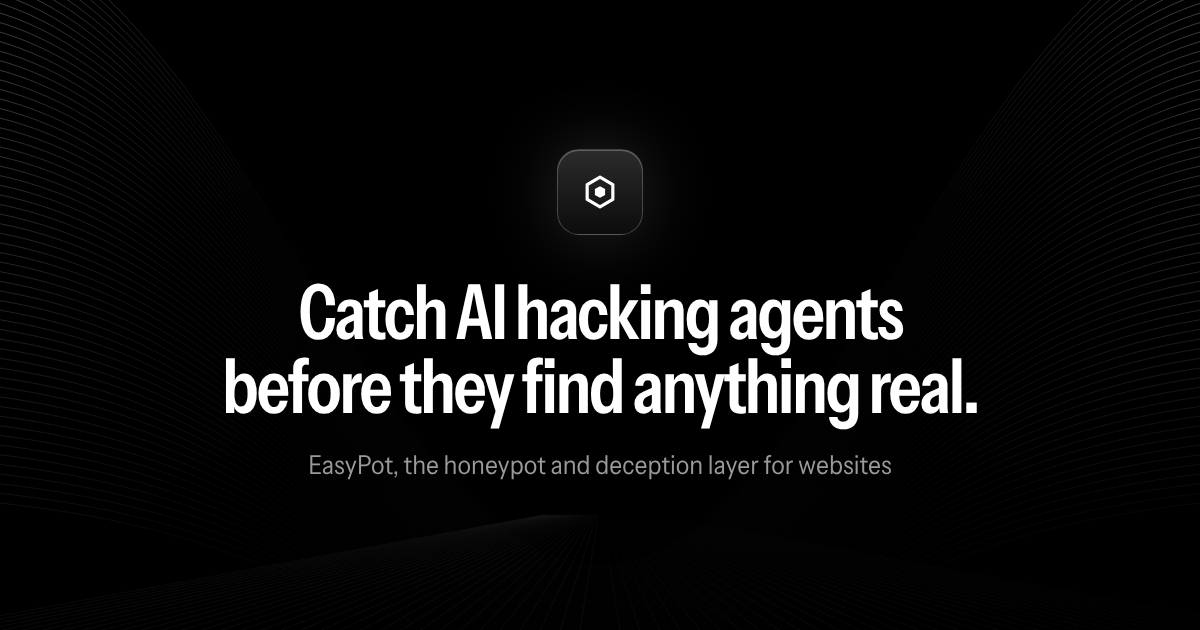
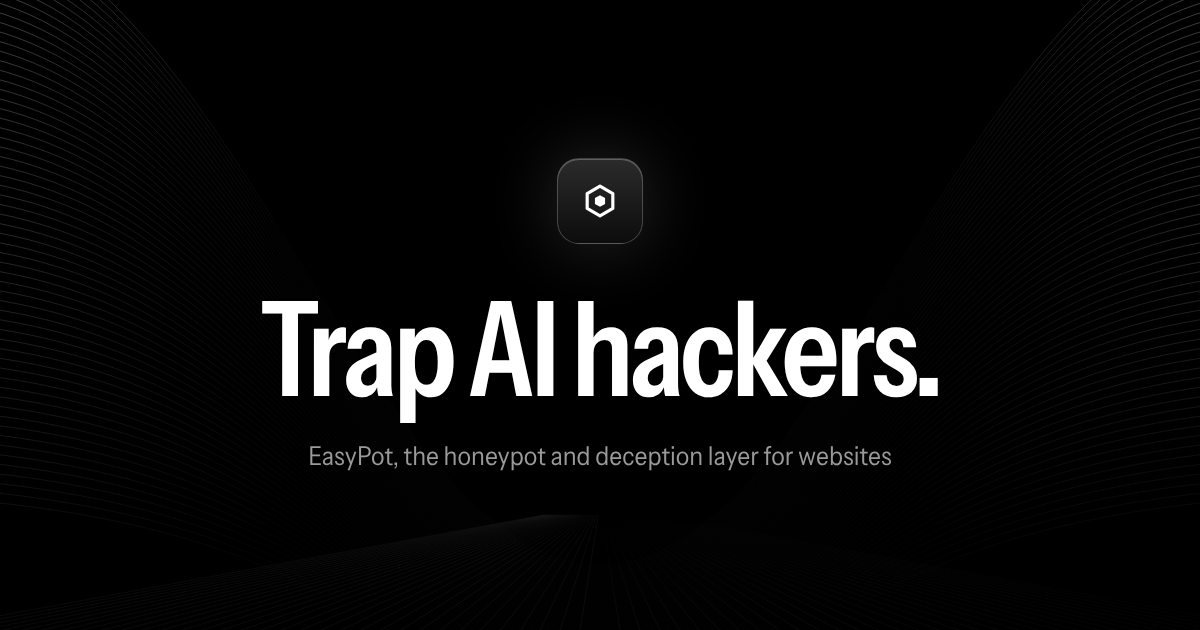
Landing page: shorten the headline to "Trap AI hackers."
The hero headline, share image and social titles now use the
three-word line, set larger so it holds one line at every width.

Claude-Session: https://claude.ai/code/session_015wtVTmvb2g8BLPFMqPnSxx

Changed region(s): [[0.185, 0.4524, 0.8325, 0.754], [0.4625, 0.2111, 0.555, 0.3921]]

diff --git a/site/index.html b/site/index.html
@@ -11,14 +11,14 @@
   <!-- Once the site has its domain, add <link rel="canonical">, og:url, and make og:image and twitter:image absolute URLs. -->
   <meta property="og:type" content="website">
   <meta property="og:site_name" content="EasyPot">
-  <meta property="og:title" content="EasyPot: catch AI hacking agents before they find anything real">
+  <meta property="og:title" content="EasyPot: trap AI hackers">
   <meta property="og:description" content="Decoys, honeytokens and hidden tripwires that catch AI agents, scanners and bots on first touch, then block them at your firewall.">
   <meta property="og:image" content="og.png">
   <meta property="og:image:width" content="1200">
   <meta property="og:image:height" content="630">
-  <meta property="og:image:alt" content="EasyPot: catch AI hacking agents before they find anything real.">
+  <meta property="og:image:alt" content="EasyPot: trap AI hackers.">
   <meta name="twitter:card" content="summary_large_image">
-  <meta name="twitter:title" content="EasyPot: catch AI hacking agents before they find anything real">
+  <meta name="twitter:title" content="EasyPot: trap AI hackers">
   <meta name="twitter:description" content="Decoys, honeytokens and hidden tripwires that catch AI agents, scanners and bots on first touch.">
   <meta name="twitter:image" content="og.png">
   <link rel="icon" href="favicon.svg" type="image/svg+xml">
@@ -57,7 +57,7 @@
     <section class="hero" id="top">
       <div class="hero-art" aria-hidden="true"><svg viewBox="0 0 1440 1040" preserveAspectRatio="xMidYMin slice" fill="none"><defs><linearGradient id="ln" x1="0" x2="1"><stop offset="0" stop-color="#fff" stop-opacity=".65"/><stop offset=".27" stop-color="#fff" stop-opacity=".08"/><stop offset=".5" stop-color="#fff" stop-opacity=".02"/><stop offset=".73" stop-color="#fff" stop-opacity=".08"/><stop offset="1" stop-color="#fff" stop-opacity=".65"/></linearGradient><linearGradient id="fl" y1="0" y2="1"><stop offset="0" stop-color="#fff" stop-opacity="0"/><stop offset="1" stop-color="#fff" stop-opacity=".13"/></linearGradient><radialGradient id="vg" cx=".5" cy=".3" r=".5"><stop offset=".35" stop-color="#000" stop-opacity=".9"/><stop offset="1" stop-color="#000" stop-opacity="0"/></radialGradient><linearGradient id="fade" y1="0" y2="1"><stop offset=".75" stop-color="#000" stop-opacity="0"/><stop offset="1" stop-color="#000"/></linearGradient></defs><g stroke="url(#fl)" stroke-width=".7"><path d="M652.0 760L-912.0 1050"/><path d="M654.0 760L-864.0 1050"/><path d="M656.0 760L-816.0 1050"/><path d="M658.0 760L-768.0 1050"/><path d="M660.0 760L-720.0 1050"/><path d="M662.0 760L-672.0 1050"/><path d="M664.0 760L-624.0 1050"/><path d="M666.0 760L-576.0 1050"/><path d="M668.0 760L-528.0 1050"/><path d="M670.0 760L-480.0 1050"/><path d="M672.0 760L-432.0 1050"/><path d="M674.0 760L-384.0 1050"/><path d="M676.0 760L-336.0 1050"/><path d="M678.0 760L-288.0 1050"/><path d="M680.0 760L-240.0 1050"/><path d="M682.0 760L-192.0 1050"/><path d="M684.0 760L-144.0 1050"/><path d="M686.0 760L-96.0 1050"/><path d="M688.0 760L-48.0 1050"/><path d="M690.0 760L0.0 1050"/><path d="M692.0 760L48.0 1050"/><path d="M694.0 760L96.0 1050"/><path d="M696.0 760L144.0 1050"/><path d="M698.0 760L192.0 1050"/><path d="M700.0 760L240.0 1050"/><path d="M702.0 760L288.0 1050"/><path d="M704.0 760L336.0 1050"/><path d="M706.0 760L384.0 1050"/><path d="M708.0 760L432.0 1050"/><path d="M710.0 760L480.0 1050"/><path d="M712.0 760L528.0 1050"/><path d="M714.0 760L576.0 1050"/><path d="M716.0 760L624.0 1050"/><path d="M718.0 760L672.0 1050"/><path d="M720.0 760L720.0 1050"/><path d="M722.0 760L768.0 1050"/><path d="M724.0 760L816.0 1050"/><path d="M726.0 760L864.0 1050"/><path d="M728.0 760L912.0 1050"/><path d="M730.0 760L960.0 1050"/><path d="M732.0 760L1008.0 1050"/><path d="M734.0 760L1056.0 1050"/><path d="M736.0 760L1104.0 1050"/><path d="M738.0 760L1152.0 1050"/><path d="M740.0 760L1200.0 1050"/><path d="M742.0 760L1248.0 1050"/><path d="M744.0 760L1296.0 1050"/><path d="M746.0 760L1344.0 1050"/><path d="M748.0 760L1392.0 1050"/><path d="M750.0 760L1440.0 1050"/><path d="M752.0 760L1488.0 1050"/><path d="M754.0 760L1536.0 1050"/><path d="M756.0 760L1584.0 1050"/><path d="M758.0 760L1632.0 1050"/><path d="M760.0 760L1680.0 1050"/><path d="M762.0 760L1728.0 1050"/><path d="M764.0 760L1776.0 1050"/><path d="M766.0 760L1824.0 1050"/><path d="M768.0 760L1872.0 1050"/><path d="M770.0 760L1920.0 1050"/><path d="M772.0 760L1968.0 1050"/><path d="M774.0 760L2016.0 1050"/><path d="M776.0 760L2064.0 1050"/><path d="M778.0 760L2112.0 1050"/><path d="M780.0 760L2160.0 1050"/><path d="M782.0 760L2208.0 1050"/><path d="M784.0 760L2256.0 1050"/><path d="M786.0 760L2304.0 1050"/><path d="M788.0 760L2352.0 1050"/></g><g stroke="url(#ln)" stroke-width=".8"><path d="M-60 40.0C280.0 80.0 440.0 820.0 720 820.0S1160.0 80.0 1500 40.0" stroke-opacity="0.71"/><path d="M-60 51.7C282.8 91.7 440.0 822.5 720 822.5S1157.2 91.7 1500 51.7" stroke-opacity="0.70"/><path d="M-60 63.3C285.7 103.3 440.0 825.0 720 825.0S1154.3 103.3 1500 63.3" stroke-opacity="0.69"/><path d="M-60 75.0C288.5 115.0 440.0 827.5 720 827.5S1151.5 115.0 1500 75.0" stroke-opacity="0.68"/><path d="M-60 86.7C291.3 126.7 440.0 830.0 720 830.0S1148.7 126.7 1500 86.7" stroke-opacity="0.67"/><path d="M-60 98.3C294.2 138.3 440.0 832.5 720 832.5S1145.8 138.3 1500 98.3" stroke-opacity="0.66"/><path d="M-60 110.0C297.0 150.0 440.0 835.0 720 835.0S1143.0 150.0 1500 110.0" stroke-opacity="0.66"/><path d="M-60 121.7C299.8 161.7 440.0 837.5 720 837.5S1140.2 161.7 1500 121.7" stroke-opacity="0.65"/><path d="M-60 133.3C302.7 173.3 440.0 840.0 720 840.0S1137.3 173.3 1500 133.3" stroke-opacity="0.64"/><path d="M-60 145.0C305.5 185.0 440.0 842.5 720 842.5S1134.5 185.0 1500 145.0" stroke-opacity="0.63"/><path d="M-60 156.7C308.3 196.7 440.0 845.0 720 845.0S1131.7 196.7 1500 156.7" stroke-opacity="0.62"/><path d="M-60 168.3C311.2 208.3 440.0 847.5 720 847.5S1128.8 208.3 1500 168.3" stroke-opacity="0.61"/><path d="M-60 180.0C314.0 220.0 440.0 850.0 720 850.0S1126.0 220.0 1500 180.0" stroke-opacity="0.60"/><path d="M-60 191.7C316.8 231.7 440.0 852.5 720 852.5S1123.2 231.7 1500 191.7" stroke-opacity="0.59"/><path d="M-60 203.3C319.7 243.3 440.0 855.0 720 855.0S1120.3 243.3 1500 203.3" stroke-opacity="0.58"/><path d="M-60 215.0C322.5 255.0 440.0 857.5 720 857.5S1117.5 255.0 1500 215.0" stroke-opacity="0.57"/><path d="M-60 226.7C325.3 266.7 440.0 860.0 720 860.0S1114.7 266.7 1500 226.7" stroke-opacity="0.56"/><path d="M-60 238.3C328.2 278.3 440.0 862.5 720 862.5S1111.8 278.3 1500 238.3" stroke-opacity="0.55"/><path d="M-60 250.0C331.0 290.0 440.0 865.0 720 865.0S1109.0 290.0 1500 250.0" stroke-opacity="0.55"/><path d="M-60 261.7C333.8 301.7 440.0 867.5 720 867.5S1106.2 301.7 1500 261.7" stroke-opacity="0.54"/><path d="M-60 273.3C336.7 313.3 440.0 870.0 720 870.0S1103.3 313.3 1500 273.3" stroke-opacity="0.53"/><path d="M-60 285.0C339.5 325.0 440.0 872.5 720 872.5S1100.5 325.0 1500 285.0" stroke-opacity="0.52"/><path d="M-60 296.7C342.3 336.7 440.0 875.0 720 875.0S1097.7 336.7 1500 296.7" stroke-opacity="0.51"/><path d="M-60 308.3C345.2 348.3 440.0 877.5 720 877.5S1094.8 348.3 1500 308.3" stroke-opacity="0.50"/><path d="M-60 320.0C348.0 360.0 440.0 880.0 720 880.0S1092.0 360.0 1500 320.0" stroke-opacity="0.49"/><path d="M-60 331.7C350.8 371.7 440.0 882.5 720 882.5S1089.2 371.7 1500 331.7" stroke-opacity="0.48"/><path d="M-60 343.3C353.7 383.3 440.0 885.0 720 885.0S1086.3 383.3 1500 343.3" stroke-opacity="0.47"/><path d="M-60 355.0C356.5 395.0 440.0 887.5 720 887.5S1083.5 395.0 1500 355.0" stroke-opacity="0.46"/><path d="M-60 366.7C359.3 406.7 440.0 890.0 720 890.0S1080.7 406.7 1500 366.7" stroke-opacity="0.45"/><path d="M-60 378.3C362.2 418.3 440.0 892.5 720 892.5S1077.8 418.3 1500 378.3" stroke-opacity="0.44"/><path d="M-60 390.0C365.0 430.0 440.0 895.0 720 895.0S1075.0 430.0 1500 390.0" stroke-opacity="0.44"/><path d="M-60 401.7C367.8 441.7 440.0 897.5 720 897.5S1072.2 441.7 1500 401.7" stroke-opacity="0.43"/><path d="M-60 413.3C370.7 453.3 440.0 900.0 720 900.0S1069.3 453.3 1500 413.3" stroke-opacity="0.42"/><path d="M-60 425.0C373.5 465.0 440.0 902.5 720 902.5S1066.5 465.0 1500 425.0" stroke-opacity="0.41"/><path d="M-60 436.7C376.3 476.7 440.0 905.0 720 905.0S1063.7 476.7 1500 436.7" stroke-opacity="0.40"/><path d="M-60 448.3C379.2 488.3 440.0 907.5 720 907.5S1060.8 488.3 1500 448.3" stroke-opacity="0.39"/><path d="M-60 460.0C382.0 500.0 440.0 910.0 720 910.0S1058.0 500.0 1500 460.0" stroke-opacity="0.38"/><path d="M-60 471.7C384.8 511.7 440.0 912.5 720 912.5S1055.2 511.7 1500 471.7" stroke-opacity="0.37"/><path d="M-60 483.3C387.7 523.3 440.0 915.0 720 915.0S1052.3 523.3 1500 483.3" stroke-opacity="0.36"/><path d="M-60 495.0C390.5 535.0 440.0 917.5 720 917.5S1049.5 535.0 1500 495.0" stroke-opacity="0.35"/><path d="M-60 506.7C393.3 546.7 440.0 920.0 720 920.0S1046.7 546.7 1500 506.7" stroke-opacity="0.34"/><path d="M-60 518.3C396.2 558.3 440.0 922.5 720 922.5S1043.8 558.3 1500 518.3" stroke-opacity="0.33"/><path d="M-60 530.0C399.0 570.0 440.0 925.0 720 925.0S1041.0 570.0 1500 530.0" stroke-opacity="0.33"/><path d="M-60 541.7C401.8 581.7 440.0 927.5 720 927.5S1038.2 581.7 1500 541.7" stroke-opacity="0.32"/><path d="M-60 553.3C404.7 593.3 440.0 930.0 720 930.0S1035.3 593.3 1500 553.3" stroke-opacity="0.31"/><path d="M-60 565.0C407.5 605.0 440.0 932.5 720 932.5S1032.5 605.0 1500 565.0" stroke-opacity="0.30"/><path d="M-60 576.7C410.3 616.7 440.0 935.0 720 935.0S1029.7 616.7 1500 576.7" stroke-opacity="0.29"/><path d="M-60 588.3C413.2 628.3 440.0 937.5 720 937.5S1026.8 628.3 1500 588.3" stroke-opacity="0.28"/><path d="M-60 600.0C416.0 640.0 440.0 940.0 720 940.0S1024.0 640.0 1500 600.0" stroke-opacity="0.27"/><path d="M-60 611.7C418.8 651.7 440.0 942.5 720 942.5S1021.2 651.7 1500 611.7" stroke-opacity="0.26"/><path d="M-60 623.3C421.7 663.3 440.0 945.0 720 945.0S1018.3 663.3 1500 623.3" stroke-opacity="0.25"/><path d="M-60 635.0C424.5 675.0 440.0 947.5 720 947.5S1015.5 675.0 1500 635.0" stroke-opacity="0.24"/><path d="M-60 646.7C427.3 686.7 440.0 950.0 720 950.0S1012.7 686.7 1500 646.7" stroke-opacity="0.23"/><path d="M-60 658.3C430.2 698.3 440.0 952.5 720 952.5S1009.8 698.3 1500 658.3" stroke-opacity="0.22"/><path d="M-60 670.0C433.0 710.0 440.0 955.0 720 955.0S1007.0 710.0 1500 670.0" stroke-opacity="0.21"/><path d="M-60 681.7C435.8 721.7 440.0 957.5 720 957.5S1004.2 721.7 1500 681.7" stroke-opacity="0.21"/><path d="M-60 693.3C438.7 733.3 440.0 960.0 720 960.0S1001.3 733.3 1500 693.3" stroke-opacity="0.20"/><path d="M-60 705.0C441.5 745.0 440.0 962.5 720 962.5S998.5 745.0 1500 705.0" stroke-opacity="0.19"/><path d="M-60 716.7C444.3 756.7 440.0 965.0 720 965.0S995.7 756.7 1500 716.7" stroke-opacity="0.18"/><path d="M-60 728.3C447.2 768.3 440.0 967.5 720 967.5S992.8 768.3 1500 728.3" stroke-opacity="0.17"/><path d="M-60 740.0C450.0 780.0 440.0 970.0 720 970.0S990.0 780.0 1500 740.0" stroke-opacity="0.16"/></g><rect width="1440" height="1040" fill="url(#vg)"/><rect width="1440" height="1040" fill="url(#fade)"/></svg></div>
       <div class="wrap hero-inner">
-        <h1>Catch AI hacking agents<br>before they find anything real.</h1>
+        <h1>Trap AI hackers.</h1>
         <p class="hero-sub">Traps no real visitor ever touches. One touch, and the attacker is caught and blocked.</p>
         <div class="hero-cta">
           <a class="btn btn-primary" href="#start">Get started</a>

diff --git a/site/styles.css b/site/styles.css
@@ -59,7 +59,7 @@ a:focus-visible, button:focus-visible { outline: 2px solid var(--white); outline
 .hero-art { position: absolute; inset: 0 0 auto; height: 1040px; z-index: -1; pointer-events: none; }
 .hero-art svg { width: 100%; height: 100%; display: block; }
 .hero-inner { display: flex; flex-direction: column; align-items: center; text-align: center; }
-.hero h1 { font-size: clamp(40px, 6.6vw, 88px); font-stretch: 78%; font-weight: 600; letter-spacing: -.035em; line-height: .96; text-wrap: balance; }
+.hero h1 { font-size: clamp(64px, 11vw, 148px); font-stretch: 78%; font-weight: 600; letter-spacing: -.035em; line-height: .96; text-wrap: balance; }
 .hero-sub { margin-top: 24px; max-width: 46ch; text-wrap: balance; color: #b3b3b3; font-size: clamp(16px, 1.6vw, 19px); }
 .hero-cta { display: flex; gap: 12px; margin-top: 36px; flex-wrap: wrap; justify-content: center; }
 
